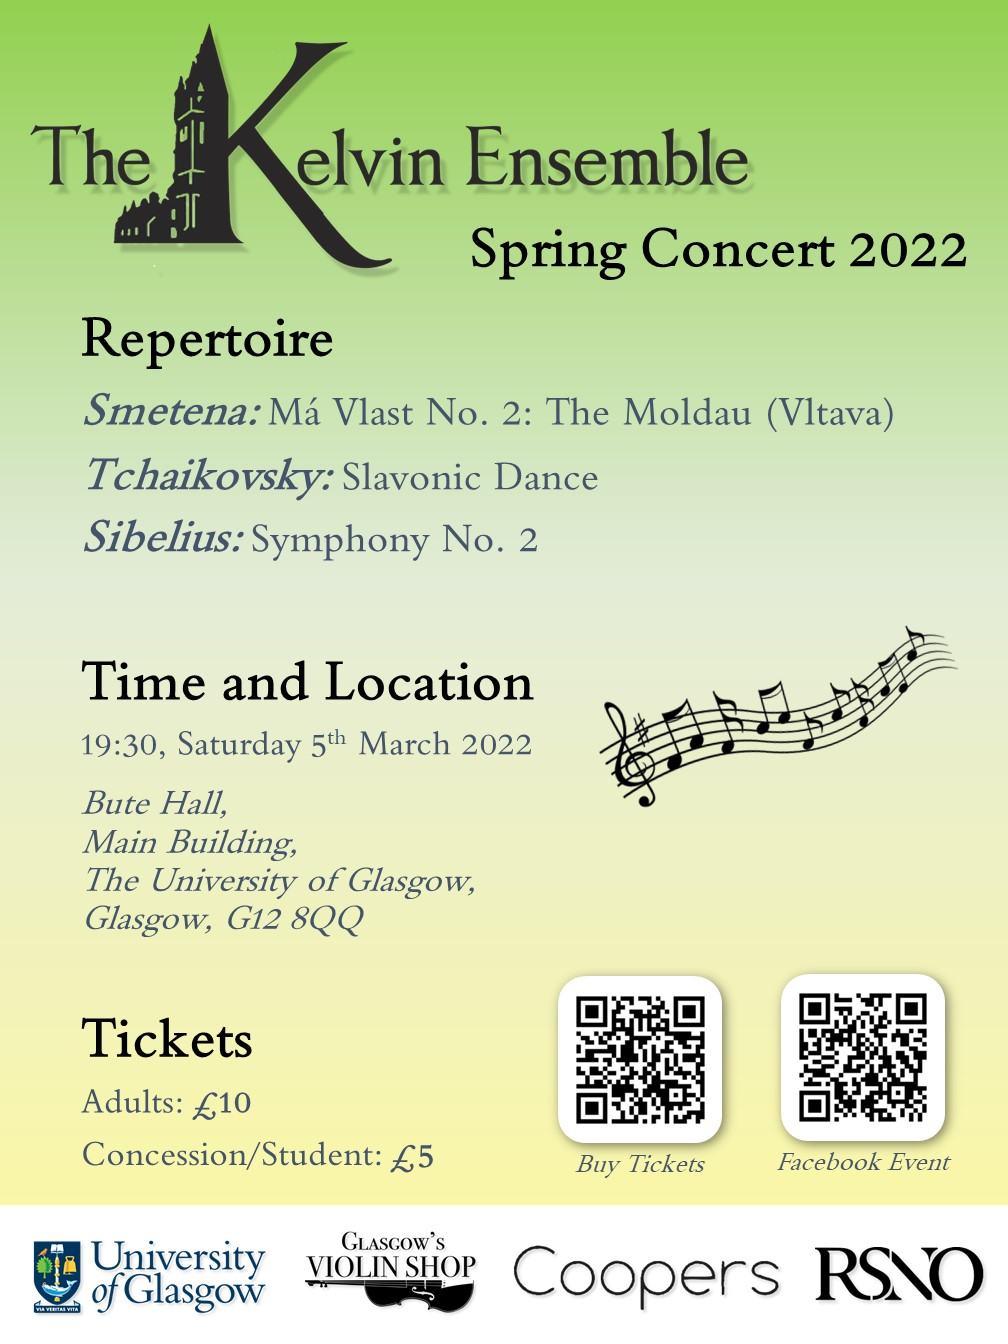
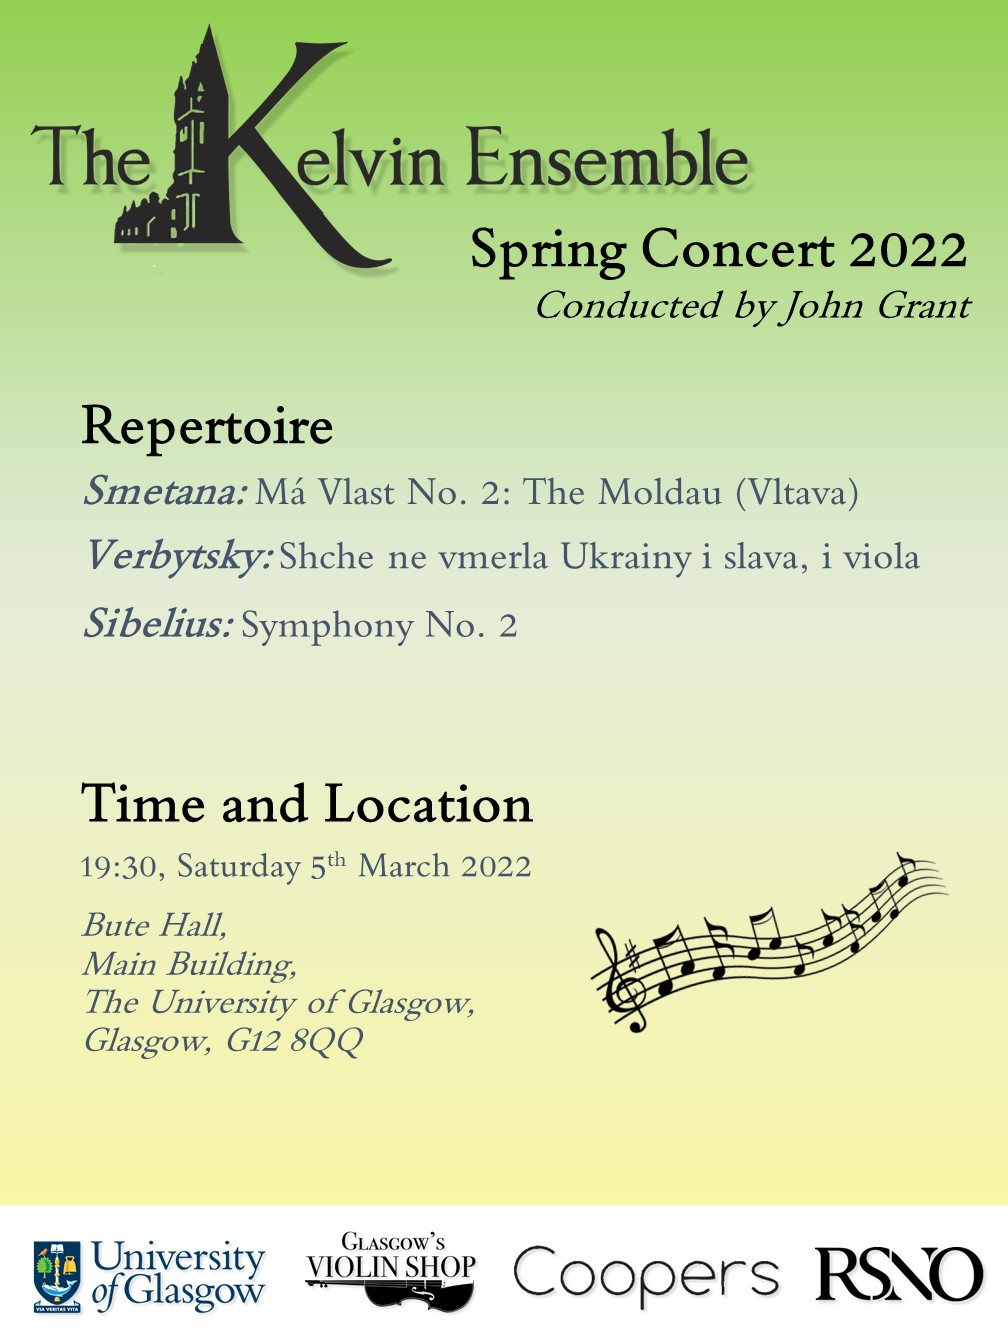
Rep changes reflected on website

diff --git a/kelvin/website/templates/website/concerts.html b/kelvin/website/templates/website/concerts.html
@@ -211,9 +211,9 @@ Upcoming Concerts
 <div>
     <h3> Repertoire </h3>
     <p>
-        <b>Sibelius</b> Symphony No. 2 <br>
         <b>Smetena</b> M&aacute; Vlast No. 2: The Moldau (Vltava) <br>
-        <b>Tchaikovsky</b> Slavonic Dance<br>
+        <b>Verbytsky</b> Shche ne Vmerla Ukrainy i slava, i volia<br>
+        <b>Sibelius</b> Symphony No. 2 <br>
     </p>
     <p>
         If you would like to familiarise yourself with the music beforehand, feel free to add these playlists to your
@@ -230,6 +230,19 @@ Upcoming Concerts
     </div>
     <p style="font-size:0.875em">
         &#8592; Scroll to switch between Apple Music and Spotify &#8594;
+    </p>
+</div>
+
+<div>
+    <h3> Facebook Event </h3>
+    <p>
+        The Facebook for the concert is available <a href="https://www.facebook.com/events/1601756480158122">here</a>.
+    </p>
+    <p>
+        Concert updates will be posted on Facebook.  In the event of a major change to the concert, we will email everyone who has purchased tickets.
+    </p>
+    <p>
+        We would be very grateful if you would mark yourself as going and invite friends, in order to to maximise our reach.
     </p>
 </div>
 
